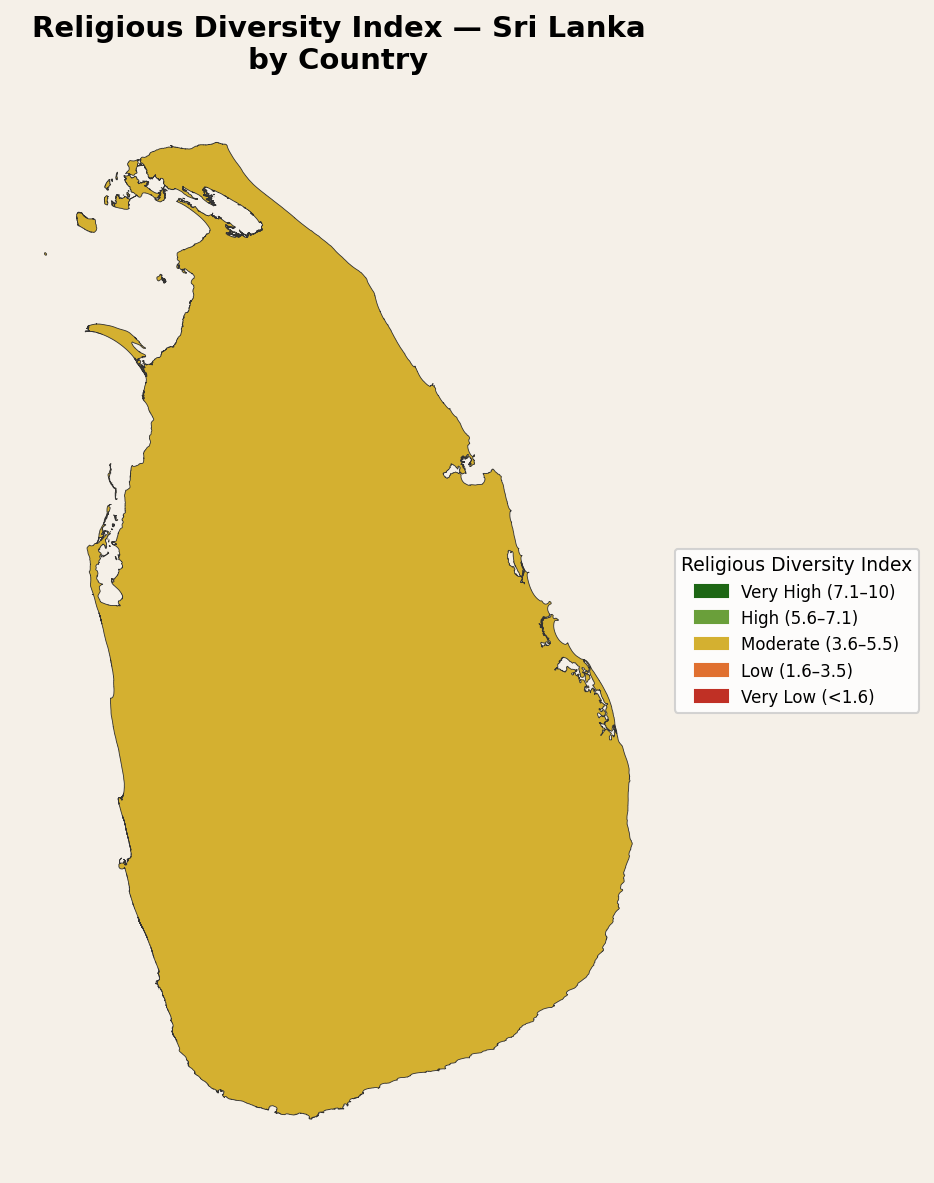
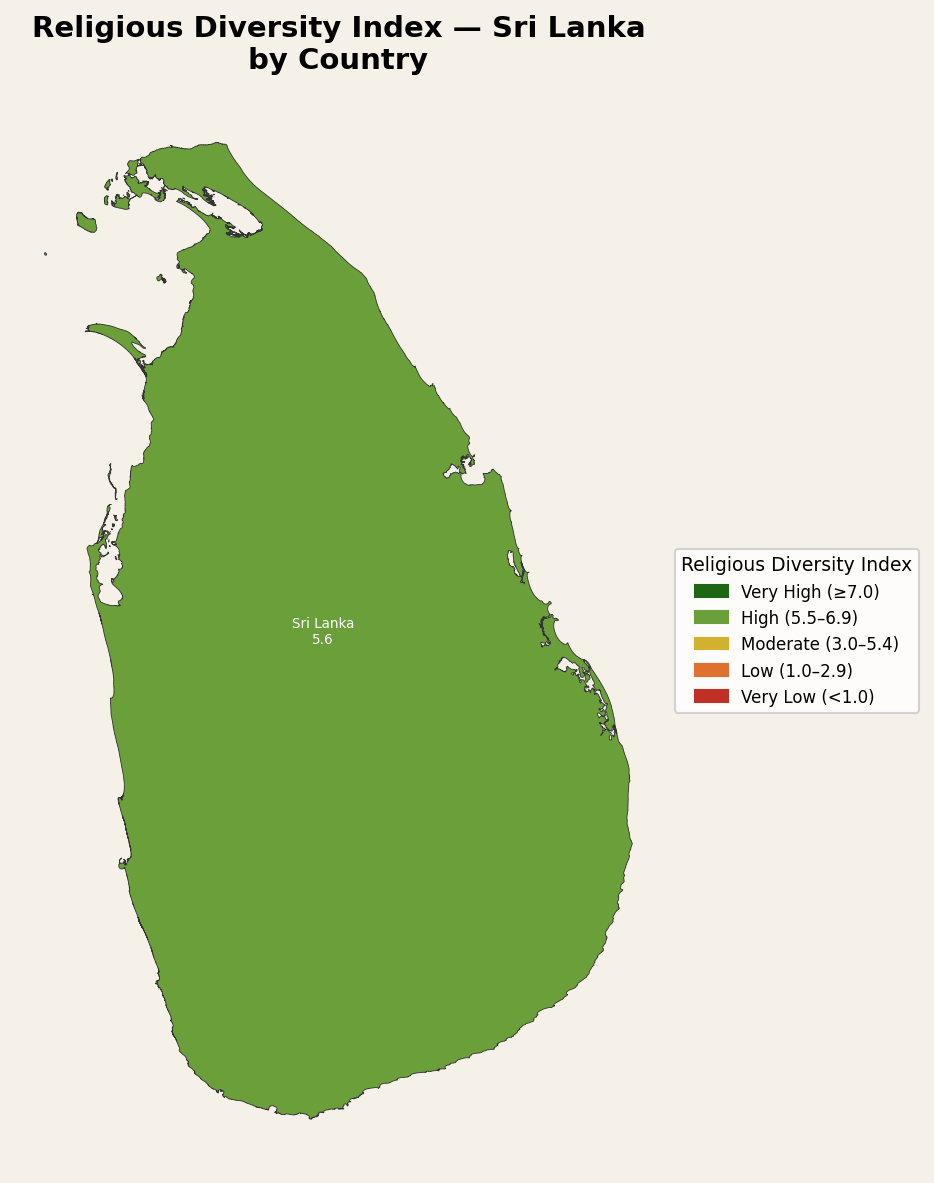
Refactor code structure for improved readability and maintainability

diff --git a/src/Diversity.py b/src/Diversity.py
@@ -9,13 +9,14 @@ from utils import Log
 
 log = Log("Diversity")
 
+
 # RDI bands and colours matching the Voronoi/Pew visualisation
 RDI_BANDS = [
-    (7.1, 10.0, "#1d6614", "Very High (7.1–10)"),
-    (5.6, 7.1, "#6a9f3a", "High (5.6–7.1)"),
-    (3.6, 5.6, "#d4b030", "Moderate (3.6–5.5)"),
-    (1.6, 3.6, "#e07030", "Low (1.6–3.5)"),
-    (0.0, 1.6, "#c03025", "Very Low (<1.6)"),
+    (7.0, 10.0, "#1d6614", "Very High (≥7.0)"),
+    (5.5, 7.0, "#6a9f3a", "High (5.5–6.9)"),
+    (3.0, 5.5, "#d4b030", "Moderate (3.0–5.4)"),
+    (1.0, 3.0, "#e07030", "Low (1.0–2.9)"),
+    (0.0, 1.0, "#c03025", "Very Low (<1.0)"),
 ]
 
 
@@ -30,7 +31,7 @@ class Diversity:
     def __init__(self, ent_type: EntType):
         self.ent_type = ent_type
 
-    def computer_hhcm(self) -> dict[str, float]:
+    def computer_hhcm(self) -> dict[str, tuple[float, str]]:
         ents = Ent.list_from_type(self.ent_type)
         n_ents = len(ents)
         log.info(f"Found {n_ents} {self.ent_type.name} entities")
@@ -40,28 +41,39 @@ class Diversity:
         )
         d = {}
         for ent in ents:
-            religion = ent.gig(gig_table_religion).dict
+            try:
+                religion = ent.gig(gig_table_religion).dict
+            except Exception as e:
+                log.warning(
+                    f"Could not get religion data for {
+                        ent.name} ({
+                        ent.id}): {e}"
+                )
+                continue
             buddhist = religion.get("buddhist", 0)
             hindu = religion.get("hindu", 0)
-            islamic = religion.get("islam", 0)
+            muslims = religion.get("islam", 0)
             christian = religion.get("roman_catholic", 0) + religion.get(
                 "other_christian", 0
             )
             other = religion.get("other", 0)
 
-            counts = [
-                buddhist,
-                hindu,
-                islamic,
-                christian,
-                other,
-            ]
-            total = sum(counts)
+            religion_counts = {
+                "buddhist": buddhist,
+                "hindu": hindu,
+                "muslims": muslims,
+                "christian": christian,
+                "religiously_unaffiliated": 0,
+                "jews": 0,
+                "other": other,
+            }
+            total = sum(religion_counts.values())
             if total == 0:
                 rdi = 0.0
             else:
-                shares = [c / total for c in counts]
-                rdi = 10 * (1 - sum(s**2 for s in shares))
+                n = len(religion_counts)
+                shares = [c / total for c in religion_counts.values()]
+                rdi = 10 * (1 - sum(s**2 for s in shares)) / (1 - 1 / n)
 
             d[ent.id] = rdi
         return d
@@ -86,6 +98,7 @@ class Diversity:
                 gdf = ent.geo()
             rdi = rdi_by_id.get(ent.id, 0.0)
             gdf["ent_id"] = ent.id
+            gdf["ent_name"] = ent.name
             gdf["rdi"] = rdi
             gdf["color"] = _rdi_color(rdi)
             frames.append(gdf)
@@ -99,6 +112,27 @@ class Diversity:
         combined.plot(
             ax=ax, color=combined["color"], edgecolor="#333333", linewidth=0.4
         )
+
+        if len(ents) < 30:
+            combined["geometry"] = combined["geometry"].buffer(0)
+            labels = combined.dissolve(
+                by="ent_id",
+                aggfunc={
+                    "ent_name": "first",
+                    "rdi": "first",
+                },
+            )
+            for _, row in labels.iterrows():
+                pt = row.geometry.representative_point()
+                label = f"{row['ent_name']}\n{row['rdi']:.1f}"
+                ax.annotate(
+                    label,
+                    xy=(pt.x, pt.y),
+                    ha="center",
+                    va="center",
+                    fontsize=6.5,
+                    color="white",
+                )
 
         # Legend
         legend_patches = [
@@ -133,6 +167,13 @@ class Diversity:
 
 
 if __name__ == "__main__":
-    for ent_type in [EntType.COUNTRY, EntType.PROVINCE, EntType.DISTRICT]:
+    for ent_type in [
+        EntType.COUNTRY,
+        EntType.PROVINCE,
+        EntType.DISTRICT,
+        EntType.DSD,
+        EntType.ED,
+        EntType.PD,
+    ]:
         diversity = Diversity(ent_type)
         diversity.plot()
